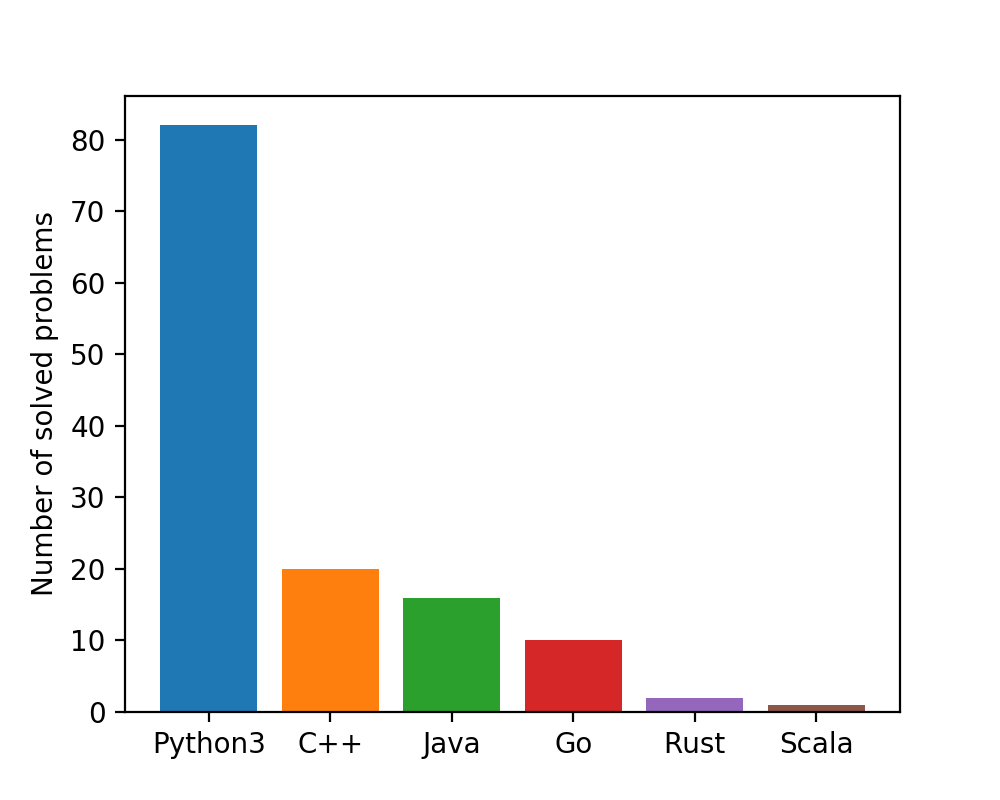
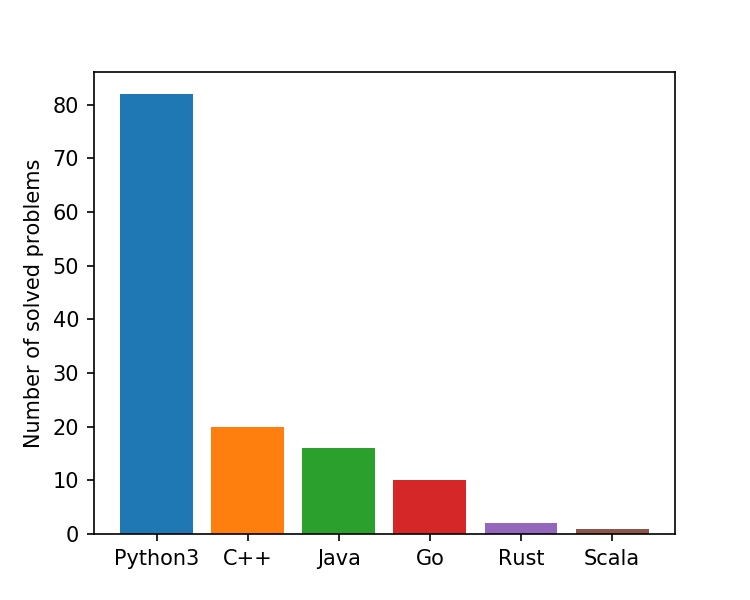
reduce the size of num_solved_problems.png

diff --git a/readme2graph.py b/readme2graph.py
@@ -20,5 +20,5 @@ plt.figure(figsize=(5,4),facecolor="W")
 for k,v in sorted(di.items(), key=lambda x: -x[1]):
     plt.bar(k,v)
 plt.ylabel("Number of solved problems")
-plt.savefig("num_solved_problems.png",dpi=200)
+plt.savefig("num_solved_problems.png",dpi=150)
 plt.close()
